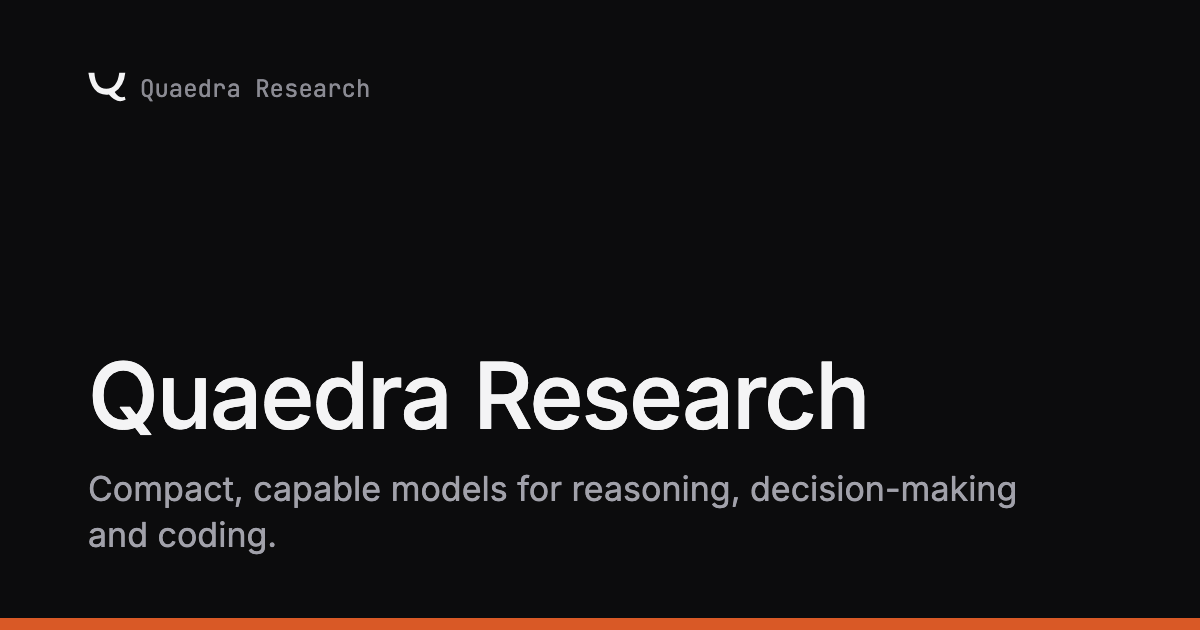
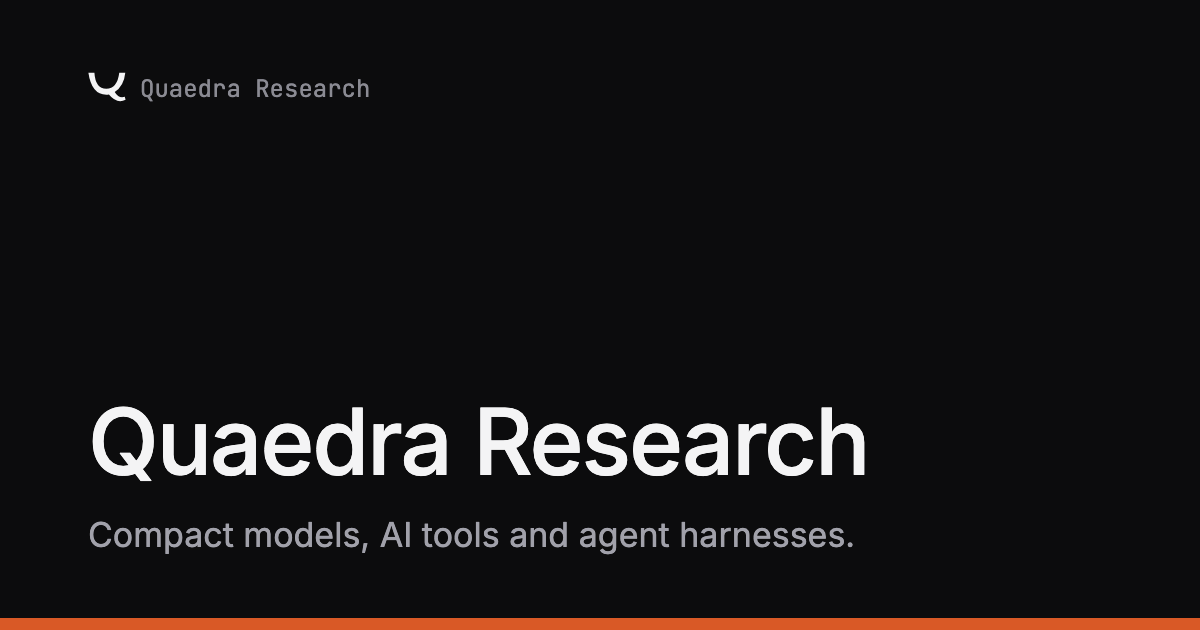
Tagline: compact models, AI tools and agent harnesses
Also fix scripts/build-og.sh failing silently when a Chromium search path
doesn't exist.

Claude-Session: https://claude.ai/code/session_019CF35Pg5ykBErwruct7PxR

Changed region(s): [[0.0617, 0.573, 0.8633, 0.8746]]

diff --git a/pages/index.html b/pages/index.html
@@ -3,17 +3,17 @@
 <head>
   <meta charset="utf-8">
   <meta name="viewport" content="width=device-width, initial-scale=1">
-  <title>Quaedra Research: compact models for reasoning, decision-making and coding</title>
-  <meta name="description" content="Quaedra Research builds compact, capable models for reasoning, decision-making and coding: Welp, Jet, Nodd and megacode.">
+  <title>Quaedra Research: compact models, AI tools and agent harnesses</title>
+  <meta name="description" content="Quaedra Research builds compact models, AI tools and agent harnesses: Welp, Jet, Nodd and megacode.">
   <meta property="og:type" content="website">
   <meta property="og:site_name" content="Quaedra Research">
   <meta property="og:title" content="Quaedra Research">
-  <meta property="og:description" content="Quaedra Research builds compact, capable models for reasoning, decision-making and coding: Welp, Jet, Nodd and megacode.">
+  <meta property="og:description" content="Quaedra Research builds compact models, AI tools and agent harnesses: Welp, Jet, Nodd and megacode.">
   <meta property="og:url" content="https://quaedra.com/">
   <meta property="og:image" content="https://quaedra.com/og/index.png">
   <meta property="og:image:width" content="1200">
   <meta property="og:image:height" content="630">
-  <meta property="og:image:alt" content="Quaedra Research: compact, capable models for reasoning, decision-making and coding.">
+  <meta property="og:image:alt" content="Quaedra Research: compact models, AI tools and agent harnesses.">
   <meta name="twitter:card" content="summary_large_image">
   <link rel="icon" href="/favicon.svg" type="image/svg+xml">
   <link rel="preconnect" href="https://fonts.googleapis.com">

diff --git a/pages/contact.html b/pages/contact.html
@@ -13,7 +13,7 @@
   <meta property="og:image" content="https://quaedra.com/og/index.png">
   <meta property="og:image:width" content="1200">
   <meta property="og:image:height" content="630">
-  <meta property="og:image:alt" content="Quaedra Research: compact, capable models for reasoning, decision-making and coding.">
+  <meta property="og:image:alt" content="Quaedra Research: compact models, AI tools and agent harnesses.">
   <meta name="twitter:card" content="summary_large_image">
   <link rel="icon" href="/favicon.svg" type="image/svg+xml">
   <link rel="preconnect" href="https://fonts.googleapis.com">

diff --git a/pages/privacy.html b/pages/privacy.html
@@ -13,7 +13,7 @@
   <meta property="og:image" content="https://quaedra.com/og/index.png">
   <meta property="og:image:width" content="1200">
   <meta property="og:image:height" content="630">
-  <meta property="og:image:alt" content="Quaedra Research: compact, capable models for reasoning, decision-making and coding.">
+  <meta property="og:image:alt" content="Quaedra Research: compact models, AI tools and agent harnesses.">
   <meta name="twitter:card" content="summary_large_image">
   <link rel="icon" href="/favicon.svg" type="image/svg+xml">
   <link rel="preconnect" href="https://fonts.googleapis.com">

diff --git a/pages/terms.html b/pages/terms.html
@@ -13,7 +13,7 @@
   <meta property="og:image" content="https://quaedra.com/og/index.png">
   <meta property="og:image:width" content="1200">
   <meta property="og:image:height" content="630">
-  <meta property="og:image:alt" content="Quaedra Research: compact, capable models for reasoning, decision-making and coding.">
+  <meta property="og:image:alt" content="Quaedra Research: compact models, AI tools and agent harnesses.">
   <meta name="twitter:card" content="summary_large_image">
   <link rel="icon" href="/favicon.svg" type="image/svg+xml">
   <link rel="preconnect" href="https://fonts.googleapis.com">

diff --git a/src/pages/Home.tsx b/src/pages/Home.tsx
@@ -30,7 +30,7 @@ const PROJECTS: { name: string; href?: string; status: [string, "live" | "traini
 
 export default function Home() {
   return (
-    <SiteLayout home title="Quaedra Research" lede={<p className="lede">We build compact, capable models for reasoning, decision-making and coding.</p>}>
+    <SiteLayout home title="Quaedra Research" lede={<p className="lede">We build compact models, AI tools and agent harnesses.</p>}>
       <section>
         <h2 className="mono">Projects</h2>
         <ul className="projects">
